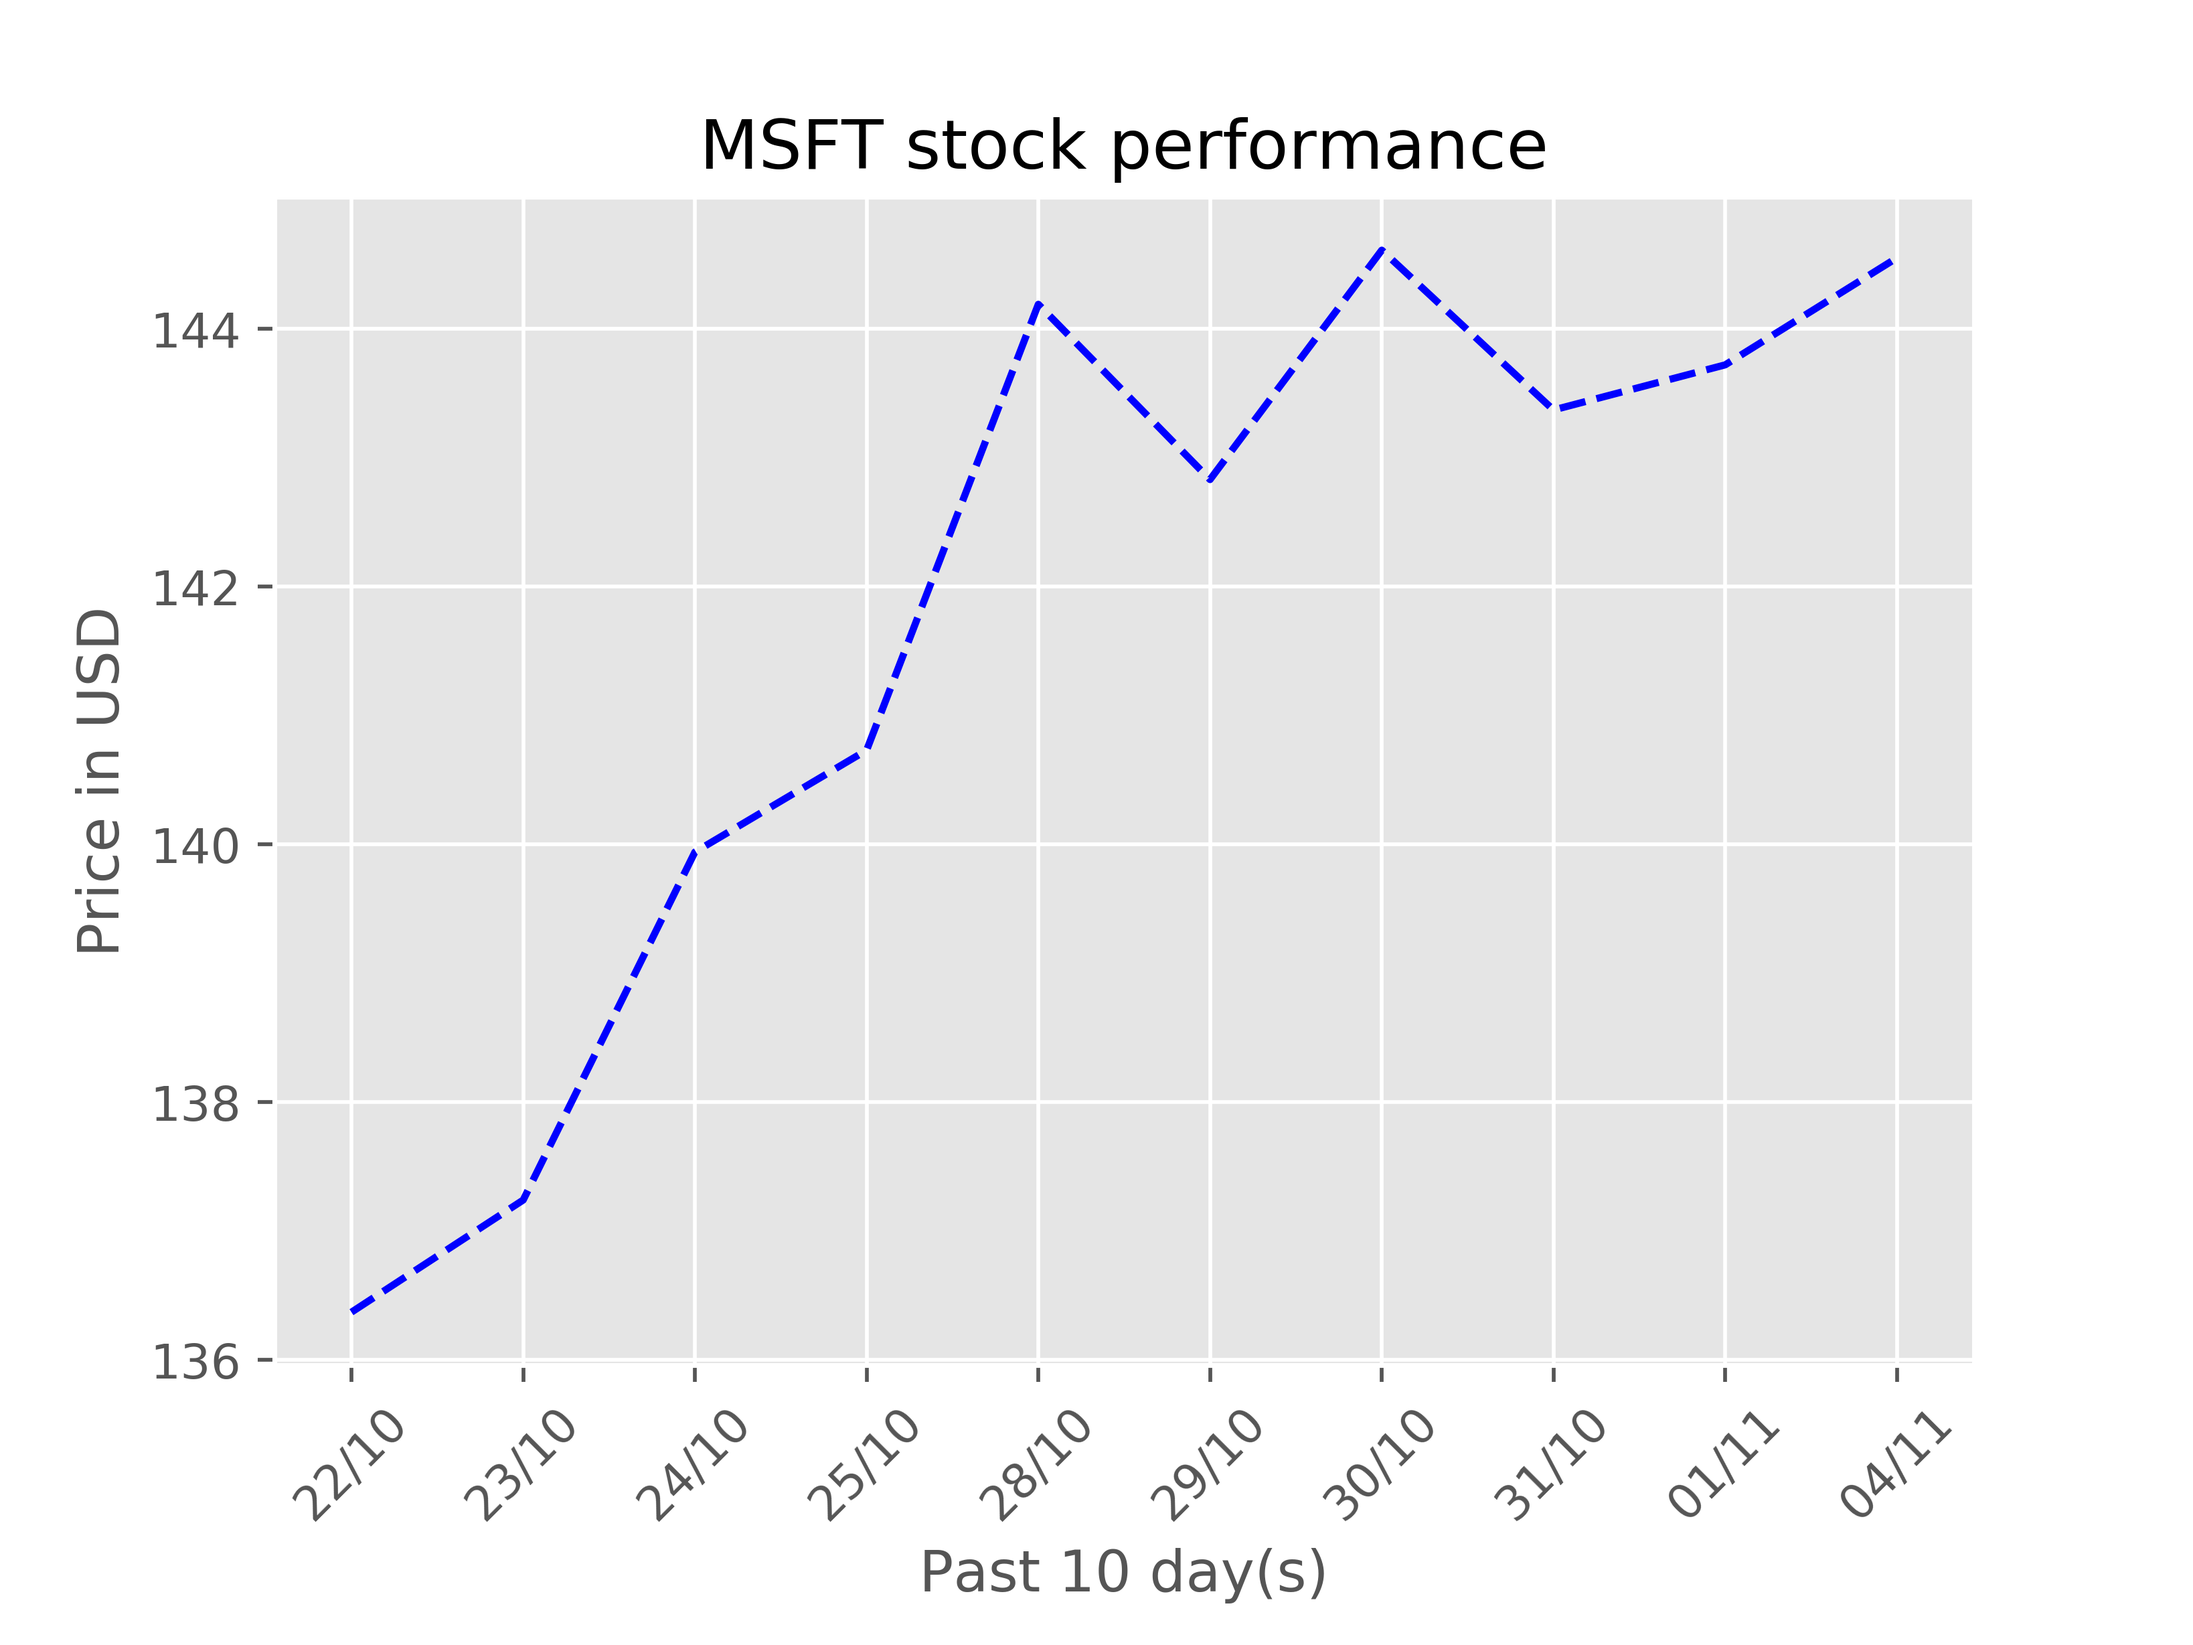
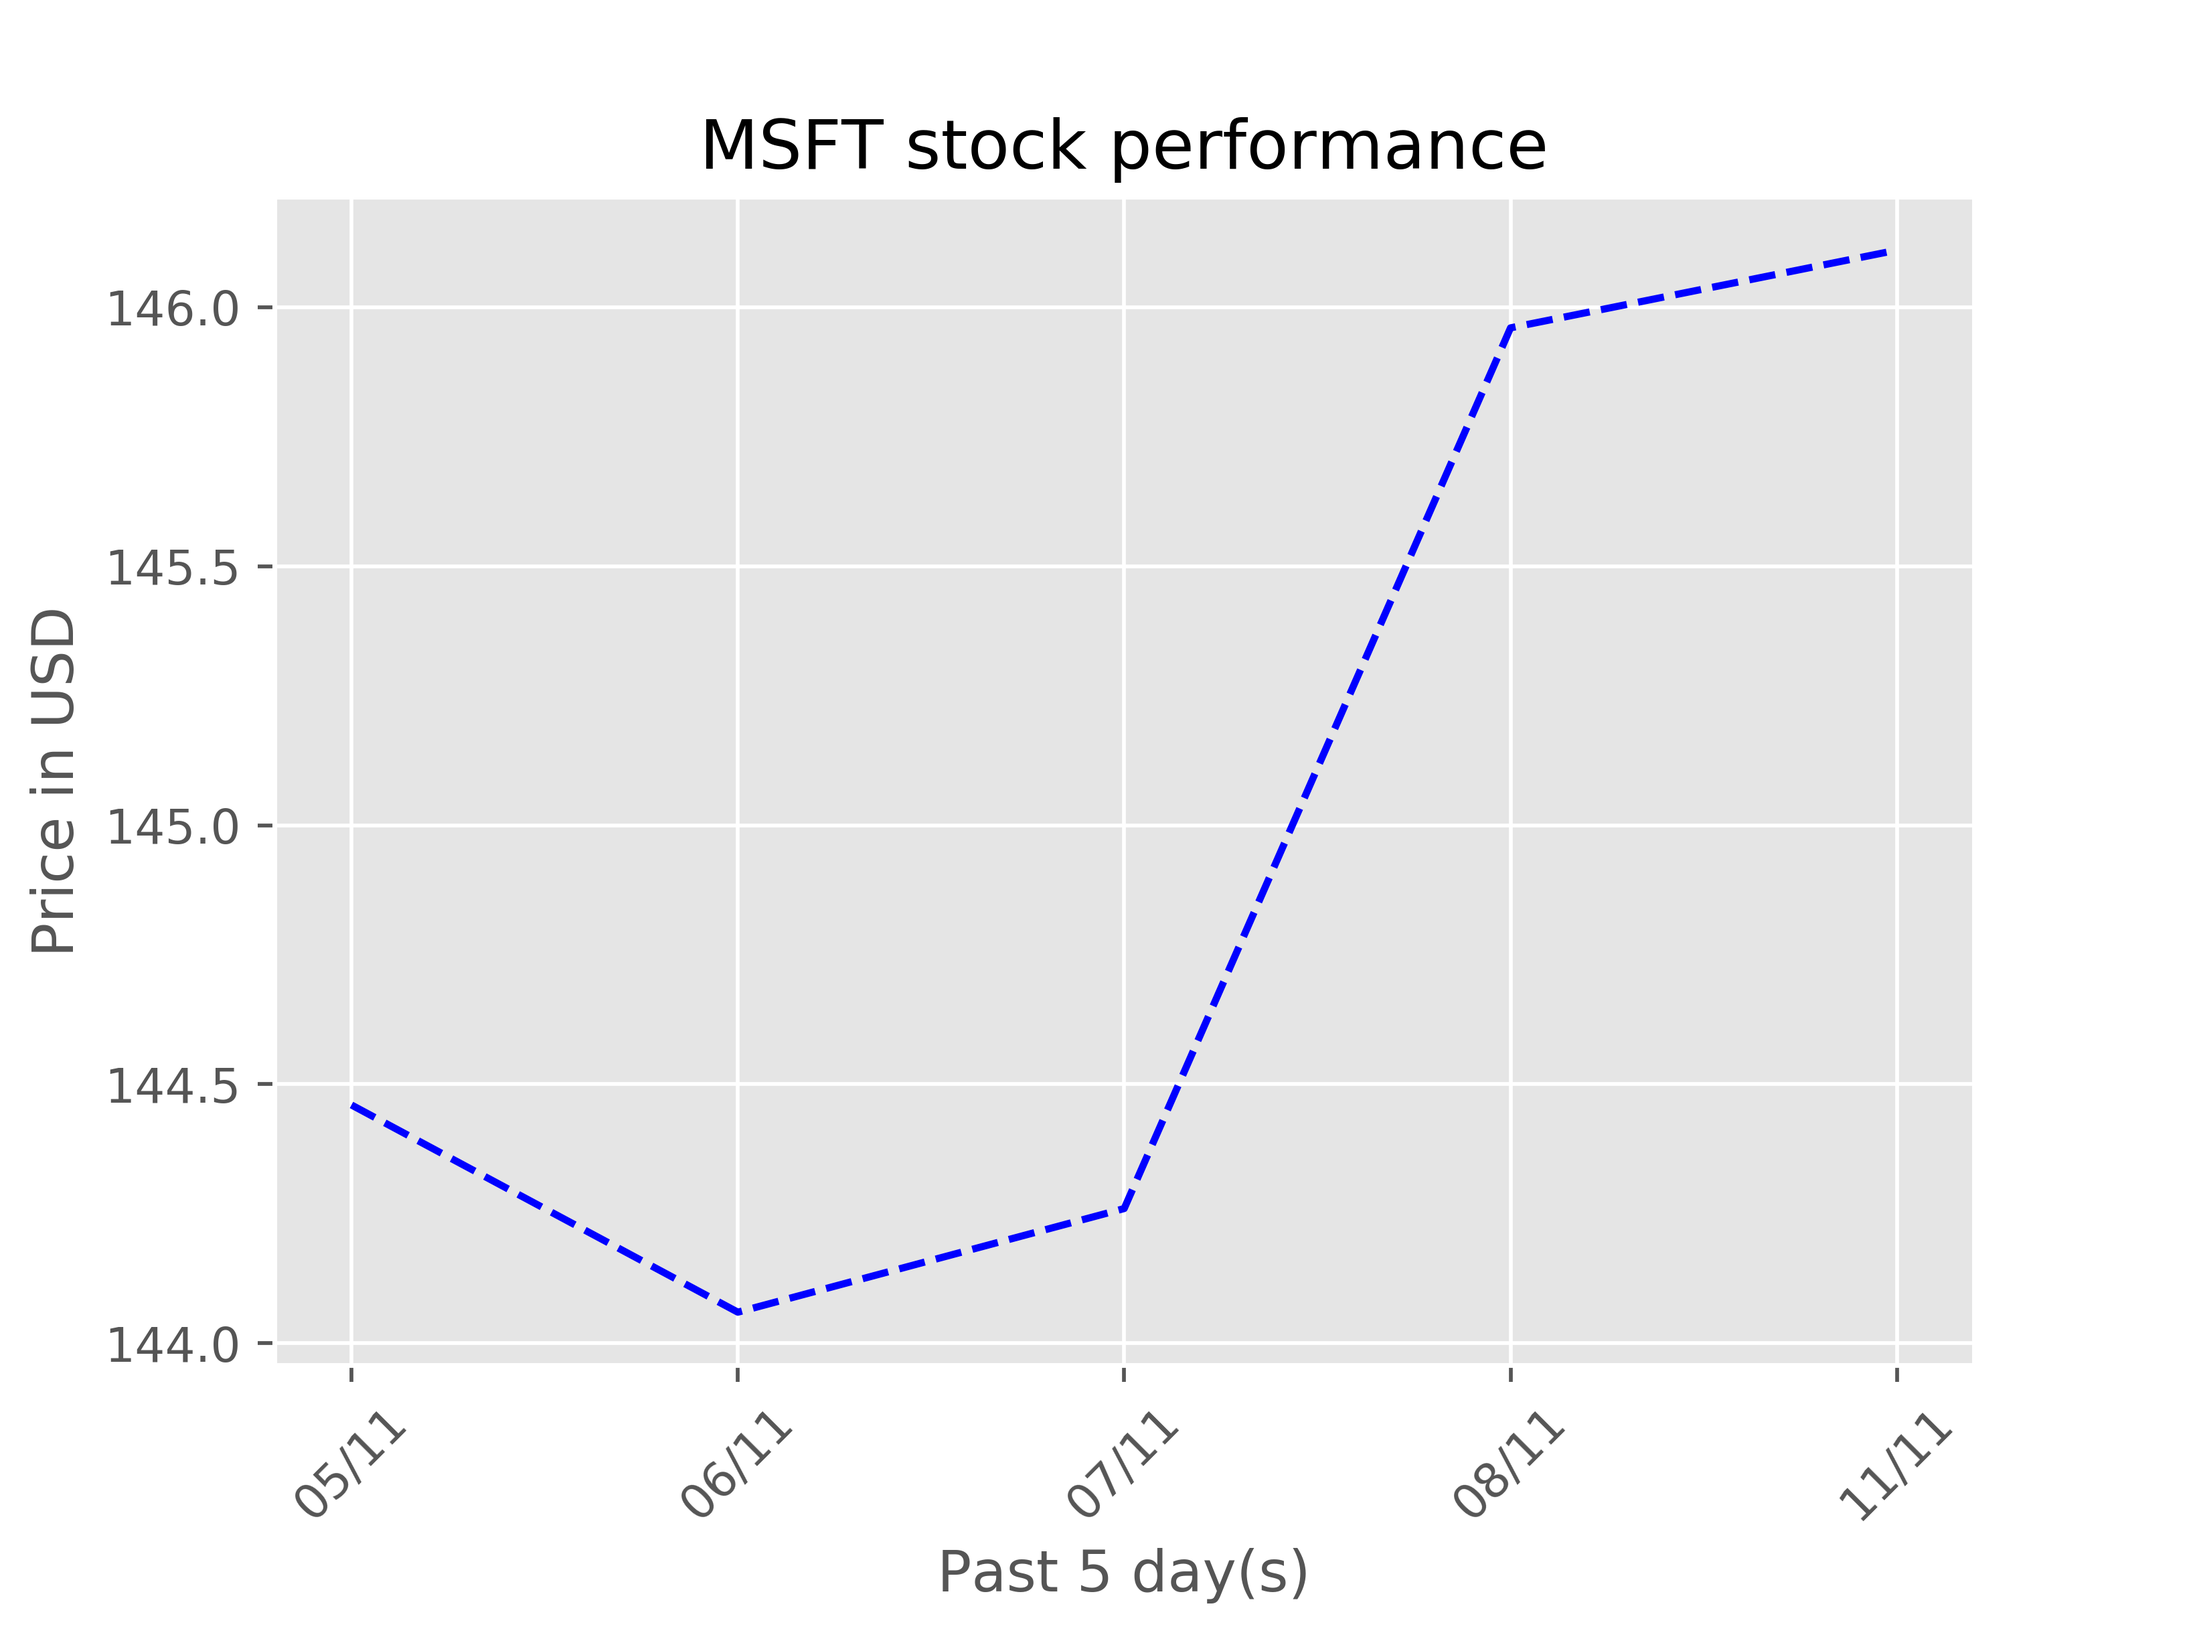
leaderboard list

diff --git a/leaderboard.py b/leaderboard.py
@@ -1,0 +1,116 @@
+#TODO Get all users
+
+# TODO user networth
+
+import db as databseCommand
+import requests
+import datetime
+from alpha_vantage.timeseries import TimeSeries as ts
+from alpha_vantage.techindicators import TechIndicators
+import analyse_text
+import graph 
+
+
+def leaderboardList():
+    memberID_list= databseCommand.list_of_members()
+    print('ids:',memberID_list)
+    leaderboardList = [['rank','a',10000],['rank','b',100]]# [[rank,name,networth]]
+
+    for memberID in memberID_list:
+        schema_leaderboard=(["rank",databseCommand.get_name(memberID),net_worth(memberID)])
+        print(schema_leaderboard)
+        leaderboardList.append(schema_leaderboard)
+
+    
+    leaderboardList = sorted(leaderboardList, key = lambda x: x[2])
+
+ #   print(leaderboardList)
+    leaderboardList.reverse()
+#
+  #  print(leaderboardList)
+
+    for i in range(len(leaderboardList)):
+       # print(i)
+        leaderboardList[i][0] = i+1
+    
+    
+    return leaderboardList
+
+
+
+def net_value_of_stocks(userID):
+    
+    total_share_value = 0
+    portfolio = databseCommand.get_portfolio(userID)
+    print(portfolio)
+    for stocks in portfolio:
+        total_shares  = portfolio[stocks]["total_shares"]
+        total_share_value += share_value(stocks) * total_shares
+        
+    
+    return round(total_share_value,2)
+
+
+
+
+def total_shares_user(userID):
+    total_shares_user = 0
+    portfolio = databseCommand.get_portfolio(userID)
+    print(portfolio)
+    for stocks in portfolio:
+        total_shares  = portfolio[stocks]["total_shares"]
+        total_shares_user += total_shares
+
+    return total_shares_user
+
+
+def net_worth(userID):
+   balance = databseCommand.get_user_balance(userID)
+   #print('balance',balance,'userID',userID) 
+   worth = balance  + net_value_of_stocks(userID)
+
+   return round(worth,2)
+
+
+
+
+
+def share_value(ticker):
+    API_KEY = graph.generate_api_key()
+    r = requests.get('https://www.alphavantage.co/query?function=TIME_SERIES_DAILY&symbol='+ticker+'&outputsize=full&apikey=' + API_KEY)
+    results = r.json()
+    for day in results['Time Series (Daily)']:
+        worth = float(results['Time Series (Daily)'][day]['4. close'])
+        break
+
+    print(ticker,worth)
+
+    return round(worth,2) 
+
+
+
+
+#print(stock_net_value(267402605318242304))
+
+
+print(leaderboardList())
+
+    # closing_list = []
+    # dates = []
+
+    # days_get = days
+    # count = 0
+
+    # for day in results['Time Series (Daily)']:
+        
+    #     if count == days_get:
+    #             break
+    #     dt = datetime.datetime.strptime(day, '%Y-%m-%d').strftime('%d/%m')
+    #     dates.append(dt)
+    #    # dates.append(day)
+        # closing_list.append(float(results['Time Series (Daily)'][day]['4. close']))
+        
+       # count += 1
+    # dates.reverse()
+    # closing_list.reverse()
+    # return dates,closing_list

diff --git a/graph.py b/graph.py
@@ -94,7 +94,7 @@ def company_name_converter(company_name):
 
   # company_name = company_name.strip('inc')
   # print(company_name)
-   stockDict = {"apple":"AAPL","alphabet":"GOOGL","microsoft":"MSFT","amazon":"AMZN","facebook":"FB","google":"GOOGL","apple inc":"AAPL", "amazon inc": "AMZN"}
+   stockDict = {"apple":"AAPL","alphabet":"GOOGL","microsoft":"MSFT","amazon":"AMZN","facebook":"FB","google":"GOOGL","apple inc":"AAPL", "amazon inc": "AMZN","blizzard":'ATVI',"blizzard inc":"ATVI"}
 
    if company_name in stockDict:
        return stockDict[company_name]
@@ -104,7 +104,7 @@ def company_name_converter(company_name):
 
 
 def generate_api_key():
-    api_key_list = ['QGXU2BPYW3O6BZ1M','OIANPZYCJ7CPJJPR',' MLPELGS77KBUFETO','BC05ZA0TDMYJMJ5F']
+    api_key_list = ['QGXU2BPYW3O6BZ1M','OIANPZYCJ7CPJJPR',' MLPELGS77KBUFETO','BC05ZA0TDMYJMJ5F','EAL8FTMD049V5U4W']
     
     
 

diff --git a/db.py b/db.py
@@ -17,6 +17,23 @@ def member_already_joined(ajoin):
     for result in result:
         return(result["_id"])
 
+def list_of_members():
+    member_id_list = []
+    result = collection.find().distinct('_id')
+    for idKey in result:
+       # member_id_list.append(result["_id"])
+        member_id_list.append(idKey)
+
+    return member_id_list
+
+def get_name(userID):
+    name = collection.find({"_id":userID},{"name":1})
+    for username in name:
+        name = username["name"]
+    return name
+
+
+
 def get_user_balance(userID):
     balance = collection.find({"_id":userID},{"balance":1})
     
@@ -31,6 +48,9 @@ def get_portfolio(userID):
         new_portfolio = object["stocks"]
         #print(new_portfolio)
     return new_portfolio
+
+
+
 
     
 def get_user_share_amount(userID,organisation):

diff --git a/bot.py b/bot.py
@@ -139,6 +139,8 @@ async def portfolio(ctx):
         for time_val in portfolio_dic[stock_listing]:
            
             information_listing += 'Total Shares:'+str(shares_have) +'\n'
+
+            #Total share value
             information_listing += '----------Date: '+time_val+'----------'+'\n'
             
 
@@ -192,7 +194,7 @@ async def clear(ctx, ammount=100):
 
 
 
-@client.command() 
+@client.command()# $predict [userInput]
 async def predict(ctx,*,arg):
     prediction = model_query.evaluate_model(arg)
     await ctx.send(prediction)

diff --git a/analyse_text.py b/analyse_text.py
@@ -87,7 +87,9 @@ def get_entity_from_text(userInput):
 
 
 def process_date_entity(date):
-
+    print(date)
+    if isinstance(date,int):
+        return "week", date
     date_split = date.split()
    
     time_frame = None
